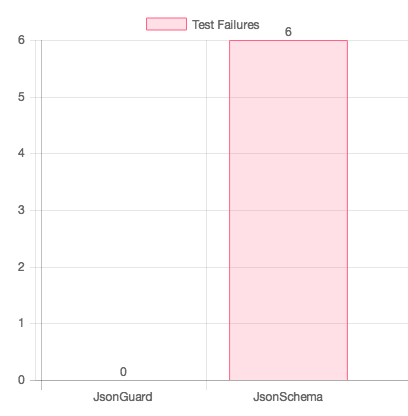
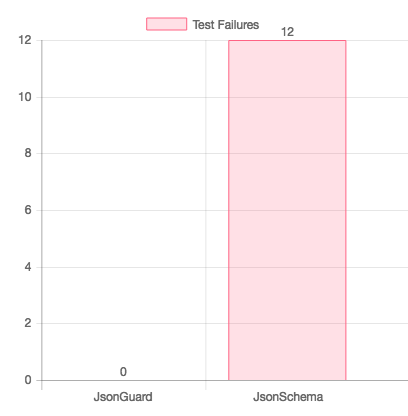
Update versions

diff --git a/README.md b/README.md
@@ -37,8 +37,8 @@ This test checks the performance of validating the meta schema which defines JSO
 
 | Validator | Wall Clock Time (in microseconds) |
 |-----------|:---------------------------------:|
-| JsonGuard | 15802.8 |
-| JsonSchema | 96509.7 |
+| JsonGuard | 14833.8 |
+| JsonSchema | 80698.6 |
 
 ### Memory usage
 
@@ -46,8 +46,8 @@ This test checks the performance of validating the meta schema which defines JSO
 
 | Validator | Peak Memory Usage (in bytes) |
 |-----------|:----------------------------:|
-| JsonGuard | 138158.4 |
-| JsonSchema | 162374.4 |
+| JsonGuard | 137486.4 |
+| JsonSchema | 161334.4 |
 
 ## Composer Schema Validaton
 
@@ -61,8 +61,8 @@ This test checks the performance of validating a composer.json file against the 
 
 | Validator | Wall Clock Time (in microseconds) |
 |-----------|:---------------------------------:|
-| JsonGuard | 5108.7 |
-| JsonSchema | 16509.8 |
+| JsonGuard | 4898.6 |
+| JsonSchema | 9032.1 |
 
 ### Memory usage
 
@@ -70,8 +70,8 @@ This test checks the performance of validating a composer.json file against the 
 
 | Validator | Peak Memory Usage (in bytes) |
 |-----------|:----------------------------:|
-| JsonGuard | 143384 |
-| JsonSchema | 170696 |
+| JsonGuard | 142152 |
+| JsonSchema | 169544 |
 
 ## Draft Four Compliance
 
@@ -86,7 +86,7 @@ This test uses the official JSON Schema test suite to determine the validator's 
 | Validator | Total Test Failures |
 |-----------|:---------------------------------:|
 | JsonGuard | 0 |
-| JsonSchema | 6 |
+| JsonSchema | 12 |
 
 
 ### JsonGuard
@@ -95,12 +95,18 @@ No test failures.
 
 ### JsonSchema
 
+* forbidden property : property absent
 * change resolution scope : changed scope ref valid
 * change resolution scope : changed scope ref valid
 * change resolution scope : changed scope ref invalid
 * integer : a bignum is an integer
 * number : a bignum is a number
+* integer : a negative bignum is an integer
+* number : a negative bignum is a number
 * string : a bignum is not a string
+* integer comparison : comparison works for very negative numbers
+* float comparison with high precision on negative numbers : comparison works for very negative numbers
+* validation of URIs : a valid protocol-relative URI
 
 
 ## Credits

diff --git a/reports/draft-four-compliance.md b/reports/draft-four-compliance.md
@@ -11,7 +11,7 @@ This test uses the official JSON Schema test suite to determine the validator's 
 | Validator | Total Test Failures |
 |-----------|:---------------------------------:|
 | JsonGuard | 0 |
-| JsonSchema | 6 |
+| JsonSchema | 12 |
 
 
 ### JsonGuard
@@ -20,9 +20,15 @@ No test failures.
 
 ### JsonSchema
 
+* forbidden property : property absent
 * change resolution scope : changed scope ref valid
 * change resolution scope : changed scope ref valid
 * change resolution scope : changed scope ref invalid
 * integer : a bignum is an integer
 * number : a bignum is a number
+* integer : a negative bignum is an integer
+* number : a negative bignum is a number
 * string : a bignum is not a string
+* integer comparison : comparison works for very negative numbers
+* float comparison with high precision on negative numbers : comparison works for very negative numbers
+* validation of URIs : a valid protocol-relative URI

diff --git a/reports/validating-the-meta-schema.md b/reports/validating-the-meta-schema.md
@@ -10,8 +10,8 @@ This test checks the performance of validating the meta schema which defines JSO
 
 | Validator | Wall Clock Time (in microseconds) |
 |-----------|:---------------------------------:|
-| JsonGuard | 15802.8 |
-| JsonSchema | 96509.7 |
+| JsonGuard | 14833.8 |
+| JsonSchema | 80698.6 |
 
 ### Memory usage
 
@@ -19,5 +19,5 @@ This test checks the performance of validating the meta schema which defines JSO
 
 | Validator | Peak Memory Usage (in bytes) |
 |-----------|:----------------------------:|
-| JsonGuard | 138158.4 |
-| JsonSchema | 162374.4 |
+| JsonGuard | 137486.4 |
+| JsonSchema | 161334.4 |

diff --git a/reports/validating-composer.md b/reports/validating-composer.md
@@ -10,8 +10,8 @@ This test checks the performance of validating a composer.json file against the 
 
 | Validator | Wall Clock Time (in microseconds) |
 |-----------|:---------------------------------:|
-| JsonGuard | 5108.7 |
-| JsonSchema | 16509.8 |
+| JsonGuard | 4898.6 |
+| JsonSchema | 9032.1 |
 
 ### Memory usage
 
@@ -19,5 +19,5 @@ This test checks the performance of validating a composer.json file against the 
 
 | Validator | Peak Memory Usage (in bytes) |
 |-----------|:----------------------------:|
-| JsonGuard | 143384 |
-| JsonSchema | 170696 |
+| JsonGuard | 142152 |
+| JsonSchema | 169544 |
